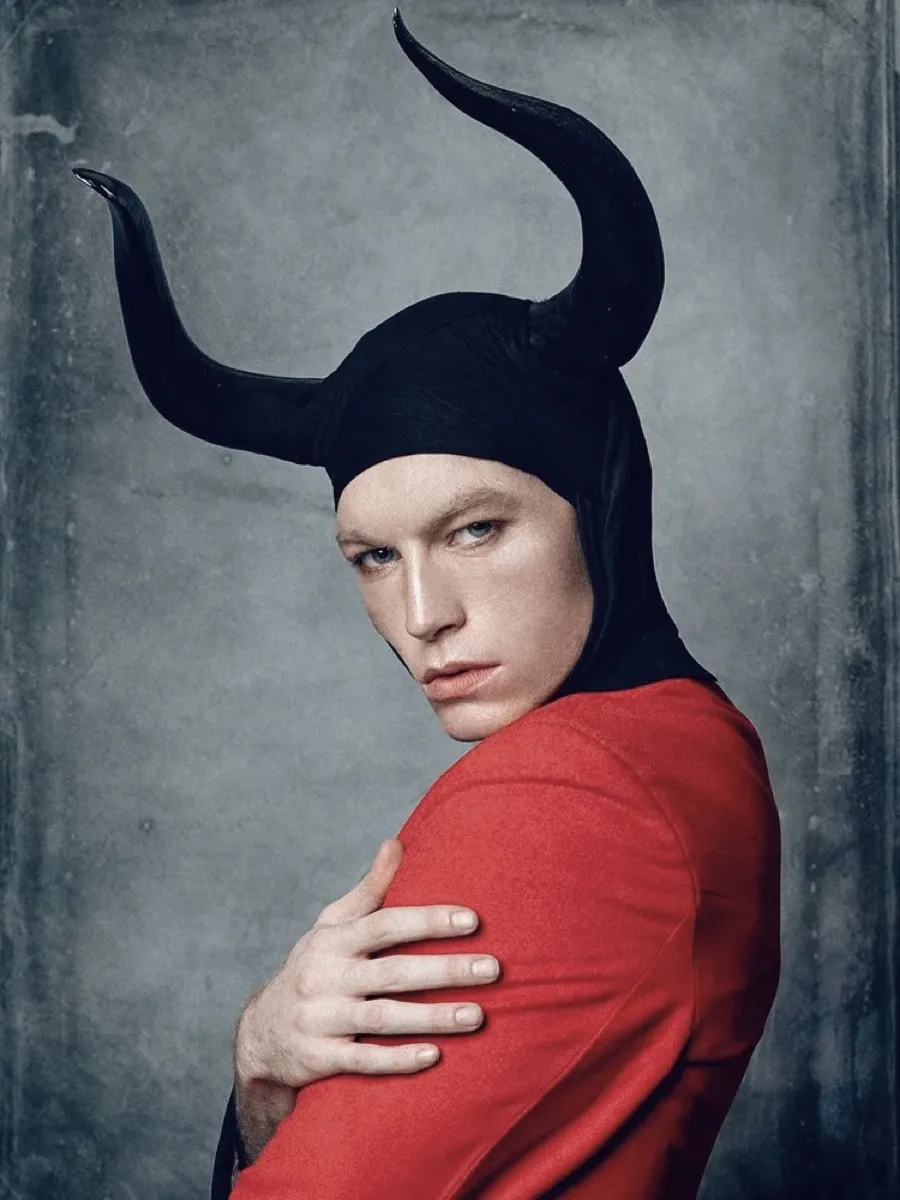
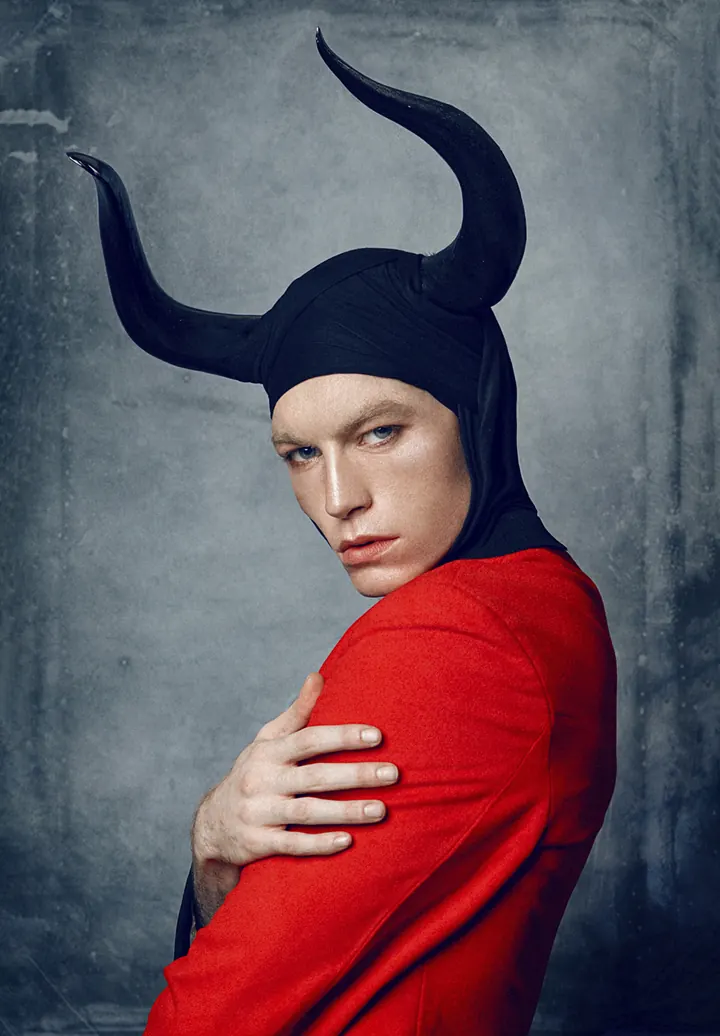
feat: higher-quality gallery photos, light thumbnails and 70% lightbox
- New photos exported as a 720px thumbnail (gallery) plus a -full version (lightbox, max 1800px)
- Restore the missing embrace photo (was .png, page asked for .webp)
- Hourglass and horns photos: white border cropped from the thumbnail only, kept in the lightbox
- Lightbox opens every photo at 70% of the screen height
- Last Projects photo replaced with the framed butterfly portrait
- Alt text updated to match the new photos

diff --git a/portraits.html b/portraits.html
@@ -74,7 +74,7 @@
         <div class="col">
           <figure class="gallery-card position-relative">
             <button class="gallery-card__button" type="button" aria-haspopup="dialog">
-              <img width="900" height="1200" class="d-block w-100 h-100 object-fit-cover" src="assets/images/portrait-blue-green-jacket.webp" alt="Portrait of a man with short hair looking over his shoulder, wearing a textured green jacket and a silver chain, against a cobalt blue backdrop" loading="lazy">
+              <img width="720" height="966" class="d-block w-100 h-100 object-fit-cover" src="assets/images/portrait-blue-green-jacket.webp" data-full="assets/images/portrait-blue-green-jacket-full.webp" alt="Portrait of a man with short natural hair and a direct gaze, wearing a bright green textured jacket and a silver chain, against a cobalt blue backdrop" loading="lazy">
             </button>
             <figcaption class="gallery-card__label position-absolute">Portraits</figcaption>
           </figure>
@@ -82,7 +82,7 @@
         <div class="col">
           <figure class="gallery-card position-relative">
             <button class="gallery-card__button" type="button" aria-haspopup="dialog">
-              <img width="900" height="1200" class="d-block w-100 h-100 object-fit-cover" src="assets/images/portrait-frida-inspired.webp" alt="Frida Kahlo-inspired portrait of a woman with red flowers in her braided hair, silver earrings and necklace, an embroidered blouse and a turquoise shawl, against a yellow backdrop" loading="lazy">
+              <img width="720" height="1080" class="d-block w-100 h-100 object-fit-cover" src="assets/images/portrait-frida-inspired.webp" data-full="assets/images/portrait-frida-inspired-full.webp" alt="Frida Kahlo-inspired portrait of a woman with red flowers in her braided hair, silver earrings and necklace, an embroidered blouse and a turquoise shawl, against a yellow backdrop" loading="lazy">
             </button>
             <figcaption class="gallery-card__label position-absolute">Portraits</figcaption>
           </figure>
@@ -90,7 +90,7 @@
         <div class="col">
           <figure class="gallery-card position-relative">
             <button class="gallery-card__button" type="button" aria-haspopup="dialog">
-              <img width="899" height="1200" class="d-block w-100 h-100 object-fit-cover" src="assets/images/portrait-red-turtleneck.webp" alt="Portrait of a young man with short auburn hair and flushed cheeks, wearing a chunky red turtleneck, against a weathered teal backdrop" loading="lazy">
+              <img width="720" height="1080" class="d-block w-100 h-100 object-fit-cover" src="assets/images/portrait-red-turtleneck.webp" data-full="assets/images/portrait-red-turtleneck-full.webp" alt="Portrait of a young man with short auburn hair and flushed cheeks, wearing a chunky red turtleneck, against a weathered teal backdrop" loading="lazy">
             </button>
             <figcaption class="gallery-card__label position-absolute">Portraits</figcaption>
           </figure>
@@ -106,7 +106,7 @@
         <div class="col">
           <figure class="gallery-card position-relative">
             <button class="gallery-card__button" type="button" aria-haspopup="dialog">
-              <img width="900" height="1200" class="d-block w-100 h-100 object-fit-cover" src="assets/images/portrait-red-hair-blue.webp" alt="Portrait of a freckled young man with bright red hair looking back over his bare shoulder, against a turquoise blue backdrop" loading="lazy">
+              <img width="720" height="876" class="d-block w-100 h-100 object-fit-cover" src="assets/images/portrait-red-hair-blue.webp" data-full="assets/images/portrait-red-hair-blue-full.webp" alt="Portrait of a freckled young man with bright red hair looking back over his bare shoulder, against a turquoise blue backdrop" loading="lazy">
             </button>
             <figcaption class="gallery-card__label position-absolute">Portraits</figcaption>
           </figure>
@@ -114,7 +114,7 @@
         <div class="col">
           <figure class="gallery-card position-relative">
             <button class="gallery-card__button" type="button" aria-haspopup="dialog">
-              <img width="900" height="1200" class="d-block w-100 h-100 object-fit-cover" src="assets/images/portrait-striped-beret.webp" alt="Black-and-white portrait of a tattooed man in a striped T-shirt and braces, touching the brim of a dark beret" loading="lazy">
+              <img width="720" height="900" class="d-block w-100 h-100 object-fit-cover" src="assets/images/portrait-striped-beret.webp" data-full="assets/images/portrait-striped-beret-full.webp" alt="Black-and-white portrait of a young person with shoulder-length blond hair and bare shoulders, looking straight at the camera" loading="lazy">
             </button>
             <figcaption class="gallery-card__label position-absolute">Portraits</figcaption>
           </figure>
@@ -122,7 +122,7 @@
         <div class="col">
           <figure class="gallery-card position-relative">
             <button class="gallery-card__button" type="button" aria-haspopup="dialog">
-              <img width="899" height="1200" class="d-block w-100 h-100 object-fit-cover" src="assets/images/portrait-gothic-bonnet.webp" alt="Portrait of a woman with long wavy brown hair in a black velvet costume with a sculptural bonnet, sheer sleeves, silver ornaments and insect-like wings, against a mottled cream backdrop" loading="lazy">
+              <img width="720" height="932" class="d-block w-100 h-100 object-fit-cover" src="assets/images/portrait-gothic-bonnet.webp" data-full="assets/images/portrait-gothic-bonnet-full.webp" alt="Portrait of a young woman with her dark hair in a high bun and a long drop earring, looking back over her shoulder in a blue embellished garment, against a mottled grey-brown backdrop" loading="lazy">
             </button>
             <figcaption class="gallery-card__label position-absolute">Portraits</figcaption>
           </figure>
@@ -130,7 +130,7 @@
         <div class="col">
           <figure class="gallery-card position-relative">
             <button class="gallery-card__button" type="button" aria-haspopup="dialog">
-              <img width="900" height="1200" class="d-block w-100 h-100 object-fit-cover" src="assets/images/portrait-dark-hair-sage.webp" alt="Close-up portrait of a young man with tousled dark hair and pale blue eyes looking over his bare shoulder, a hand resting on it, against a sage green backdrop" loading="lazy">
+              <img width="720" height="900" class="d-block w-100 h-100 object-fit-cover" src="assets/images/portrait-dark-hair-sage.webp" data-full="assets/images/portrait-dark-hair-sage-full.webp" alt="Close-up portrait of a young man with tousled dark hair and pale eyes looking over his bare shoulder, a hand resting on it, against a sage green backdrop" loading="lazy">
             </button>
             <figcaption class="gallery-card__label position-absolute">Portraits</figcaption>
           </figure>
@@ -138,7 +138,7 @@
         <div class="col">
           <figure class="gallery-card position-relative">
             <button class="gallery-card__button" type="button" aria-haspopup="dialog">
-              <img width="900" height="1200" class="d-block w-100 h-100 object-fit-cover" src="assets/images/portrait-horns-red.webp" alt="Portrait of a man in a black hood with tall curved horns and a red jacket, hugging his arm and looking back over his shoulder, against a weathered grey backdrop" loading="lazy">
+              <img width="720" height="1036" class="d-block w-100 h-100 object-fit-cover" src="assets/images/portrait-horns-red.webp" data-full="assets/images/portrait-horns-red-full.webp" alt="Portrait of a young man in a dark navy hood with tall curved horns and a red jacket, hugging his arm and looking back over his shoulder, against a weathered blue-grey backdrop" loading="lazy">
             </button>
             <figcaption class="gallery-card__label position-absolute">Portraits</figcaption>
           </figure>

diff --git a/index.html b/index.html
@@ -85,7 +85,7 @@
       <div class="col">
         <figure class="gallery-card position-relative">
           <button class="gallery-card__button" type="button" aria-haspopup="dialog">
-            <img width="900" height="1200" class="d-block w-100 h-100 object-fit-cover" src="assets/images/portrait-blue-green-jacket.webp" alt="Portrait of a man with short hair looking over his shoulder, wearing a textured green jacket and a silver chain, against a cobalt blue backdrop" loading="lazy">
+            <img width="720" height="966" class="d-block w-100 h-100 object-fit-cover" src="assets/images/portrait-blue-green-jacket.webp" data-full="assets/images/portrait-blue-green-jacket-full.webp" alt="Portrait of a man with short natural hair and a direct gaze, wearing a bright green textured jacket and a silver chain, against a cobalt blue backdrop" loading="lazy">
           </button>
           <figcaption class="gallery-card__label position-absolute">Portraits</figcaption>
         </figure>
@@ -93,7 +93,7 @@
       <div class="col">
         <figure class="gallery-card position-relative">
           <button class="gallery-card__button" type="button" aria-haspopup="dialog">
-            <img width="900" height="1200" class="d-block w-100 h-100 object-fit-cover" src="assets/images/portrait-frida-inspired.webp" alt="Frida Kahlo-inspired portrait of a woman with red flowers in her braided hair, silver earrings and necklace, an embroidered blouse and a turquoise shawl, against a yellow backdrop" loading="lazy">
+            <img width="720" height="1080" class="d-block w-100 h-100 object-fit-cover" src="assets/images/portrait-frida-inspired.webp" data-full="assets/images/portrait-frida-inspired-full.webp" alt="Frida Kahlo-inspired portrait of a woman with red flowers in her braided hair, silver earrings and necklace, an embroidered blouse and a turquoise shawl, against a yellow backdrop" loading="lazy">
           </button>
           <figcaption class="gallery-card__label position-absolute">Portraits</figcaption>
         </figure>
@@ -101,7 +101,7 @@
       <div class="col">
         <figure class="gallery-card position-relative">
           <button class="gallery-card__button" type="button" aria-haspopup="dialog">
-            <img width="899" height="1200" class="d-block w-100 h-100 object-fit-cover" src="assets/images/portrait-red-turtleneck.webp" alt="Portrait of a young man with short auburn hair and flushed cheeks, wearing a chunky red turtleneck, against a weathered teal backdrop" loading="lazy">
+            <img width="720" height="1080" class="d-block w-100 h-100 object-fit-cover" src="assets/images/portrait-red-turtleneck.webp" data-full="assets/images/portrait-red-turtleneck-full.webp" alt="Portrait of a young man with short auburn hair and flushed cheeks, wearing a chunky red turtleneck, against a weathered teal backdrop" loading="lazy">
           </button>
           <figcaption class="gallery-card__label position-absolute">Portraits</figcaption>
         </figure>
@@ -117,7 +117,7 @@
       <div class="col">
         <figure class="gallery-card position-relative">
           <button class="gallery-card__button" type="button" aria-haspopup="dialog">
-            <img width="900" height="1200" class="d-block w-100 h-100 object-fit-cover" src="assets/images/portrait-horns-red.webp" alt="Portrait of a man in a black hood with tall curved horns and a red jacket, hugging his arm and looking back over his shoulder, against a weathered grey backdrop" loading="lazy">
+            <img width="720" height="1036" class="d-block w-100 h-100 object-fit-cover" src="assets/images/portrait-horns-red.webp" data-full="assets/images/portrait-horns-red-full.webp" alt="Portrait of a young man in a dark navy hood with tall curved horns and a red jacket, hugging his arm and looking back over his shoulder, against a weathered blue-grey backdrop" loading="lazy">
           </button>
           <figcaption class="gallery-card__label position-absolute">Portraits</figcaption>
         </figure>
@@ -125,7 +125,7 @@
       <div class="col">
         <figure class="gallery-card position-relative">
           <button class="gallery-card__button" type="button" aria-haspopup="dialog">
-            <img width="900" height="1200" class="d-block w-100 h-100 object-fit-cover" src="assets/images/portrait-red-hair-blue.webp" alt="Portrait of a freckled young man with bright red hair looking back over his bare shoulder, against a turquoise blue backdrop" loading="lazy">
+            <img width="720" height="876" class="d-block w-100 h-100 object-fit-cover" src="assets/images/portrait-red-hair-blue.webp" data-full="assets/images/portrait-red-hair-blue-full.webp" alt="Portrait of a freckled young man with bright red hair looking back over his bare shoulder, against a turquoise blue backdrop" loading="lazy">
           </button>
           <figcaption class="gallery-card__label position-absolute">Portraits</figcaption>
         </figure>
@@ -133,7 +133,7 @@
       <div class="col">
         <figure class="gallery-card position-relative">
           <button class="gallery-card__button" type="button" aria-haspopup="dialog">
-            <img width="899" height="1200" class="d-block w-100 h-100 object-fit-cover" src="assets/images/portrait-gothic-bonnet.webp" alt="Portrait of a woman with long wavy brown hair in a black velvet costume with a sculptural bonnet, sheer sleeves, silver ornaments and insect-like wings, against a mottled cream backdrop" loading="lazy">
+            <img width="720" height="932" class="d-block w-100 h-100 object-fit-cover" src="assets/images/portrait-gothic-bonnet.webp" data-full="assets/images/portrait-gothic-bonnet-full.webp" alt="Portrait of a young woman with her dark hair in a high bun and a long drop earring, looking back over her shoulder in a blue embellished garment, against a mottled grey-brown backdrop" loading="lazy">
           </button>
           <figcaption class="gallery-card__label position-absolute">Portraits</figcaption>
         </figure>
@@ -141,7 +141,7 @@
       <div class="col">
         <figure class="gallery-card position-relative">
           <button class="gallery-card__button" type="button" aria-haspopup="dialog">
-            <img width="900" height="1200" class="d-block w-100 h-100 object-fit-cover" src="assets/images/portrait-dark-hair-sage.webp" alt="Close-up portrait of a young man with tousled dark hair and pale blue eyes looking over his bare shoulder, a hand resting on it, against a sage green backdrop" loading="lazy">
+            <img width="720" height="900" class="d-block w-100 h-100 object-fit-cover" src="assets/images/portrait-dark-hair-sage.webp" data-full="assets/images/portrait-dark-hair-sage-full.webp" alt="Close-up portrait of a young man with tousled dark hair and pale eyes looking over his bare shoulder, a hand resting on it, against a sage green backdrop" loading="lazy">
           </button>
           <figcaption class="gallery-card__label position-absolute">Portraits</figcaption>
         </figure>
@@ -149,7 +149,7 @@
       <div class="col">
         <figure class="gallery-card position-relative">
           <button class="gallery-card__button" type="button" aria-haspopup="dialog">
-            <img width="900" height="1200" class="d-block w-100 h-100 object-fit-cover" src="assets/images/portrait-striped-beret.webp" alt="Black-and-white portrait of a tattooed man in a striped T-shirt and braces, touching the brim of a dark beret" loading="lazy">
+            <img width="720" height="900" class="d-block w-100 h-100 object-fit-cover" src="assets/images/portrait-striped-beret.webp" data-full="assets/images/portrait-striped-beret-full.webp" alt="Black-and-white portrait of a young person with shoulder-length blond hair and bare shoulders, looking straight at the camera" loading="lazy">
           </button>
           <figcaption class="gallery-card__label position-absolute">Portraits</figcaption>
         </figure>

diff --git a/projects.html b/projects.html
@@ -74,7 +74,7 @@
         <div class="col">
           <figure class="gallery-card position-relative">
             <button class="gallery-card__button" type="button" aria-haspopup="dialog">
-              <img width="900" height="1200" class="d-block w-100 h-100 object-fit-cover" src="assets/images/project-embrace-bw.webp" alt="Black-and-white portrait of two shirtless men posing close together, one with a buzz cut and an ear cuff, the other with an afro, his arm wrapped around the first" loading="lazy">
+              <img width="720" height="714" class="d-block w-100 h-100 object-fit-cover" src="assets/images/project-embrace-bw.webp" data-full="assets/images/project-embrace-bw-full.webp" alt="Black-and-white portrait of two shirtless men posing close together, one with a buzz cut and an ear cuff, the other with an afro, his arm wrapped around the first" loading="lazy">
             </button>
             <figcaption class="gallery-card__label position-absolute">Projects</figcaption>
           </figure>
@@ -82,7 +82,7 @@
         <div class="col">
           <figure class="gallery-card position-relative">
             <button class="gallery-card__button" type="button" aria-haspopup="dialog">
-              <img width="750" height="1000" class="d-block w-100 h-100 object-fit-cover" src="assets/images/project-hourglass-feathers.webp" alt="Portrait of a woman with very long black hair in a black feather headdress with jewelled details and red lips, holding a red sand hourglass, against a dark blue painted backdrop" loading="lazy">
+              <img width="720" height="1036" class="d-block w-100 h-100 object-fit-cover" src="assets/images/project-hourglass-feathers.webp" data-full="assets/images/project-hourglass-feathers-full.webp" alt="Portrait of a seated woman with very long black hair, a black feather headdress and red lips, in a flowing ochre dress, holding a red sand hourglass against a dark blue painted backdrop" loading="lazy">
             </button>
             <figcaption class="gallery-card__label position-absolute">Projects</figcaption>
           </figure>
@@ -98,7 +98,7 @@
         <div class="col">
           <figure class="gallery-card position-relative">
             <button class="gallery-card__button" type="button" aria-haspopup="dialog">
-              <img width="900" height="1200" class="d-block w-100 h-100 object-fit-cover" src="assets/images/project-green-denim.webp" alt="Editorial of a man in black sunglasses and a bright green printed denim jacket and jeans, worn open over a bare chest with a silver chain, against a cobalt blue backdrop" loading="lazy">
+              <img width="720" height="964" class="d-block w-100 h-100 object-fit-cover" src="assets/images/project-green-denim.webp" data-full="assets/images/project-green-denim-full.webp" alt="A hardcover book titled &quot;Zodiac&quot; by Caio Sanfelice, its cover showing a wheel of zodiac portraits, on a dark table against a deep blue background" loading="lazy">
             </button>
             <figcaption class="gallery-card__label position-absolute">Projects</figcaption>
           </figure>
@@ -106,7 +106,7 @@
         <div class="col">
           <figure class="gallery-card position-relative">
             <button class="gallery-card__button" type="button" aria-haspopup="dialog">
-              <img width="829" height="1106" class="d-block w-100 h-100 object-fit-cover" src="assets/images/project-fringe-dress.webp" alt="Editorial of a woman with a dark bob in a burgundy fringed dress and black knee-high boots, mid-stride, against an iridescent backdrop" loading="lazy">
+              <img width="720" height="900" class="d-block w-100 h-100 object-fit-cover" src="assets/images/project-fringe-dress.webp" data-full="assets/images/project-fringe-dress-full.webp" alt="Editorial of a woman with a dark bob in a burgundy fringed dress and black knee-high boots, mid-stride, against an iridescent backdrop" loading="lazy">
             </button>
             <figcaption class="gallery-card__label position-absolute">Projects</figcaption>
           </figure>
@@ -138,7 +138,7 @@
         <div class="col">
           <figure class="gallery-card position-relative">
             <button class="gallery-card__button" type="button" aria-haspopup="dialog">
-              <img width="900" height="1200" class="d-block w-100 h-100 object-fit-cover" src="assets/images/project-beard-beanie.webp" alt="Close-up portrait of a man with a full dark beard, an olive beanie and chest tattoos, looking over his shoulder against a turquoise backdrop" loading="lazy">
+              <img width="720" height="720" class="d-block w-100 h-100 object-fit-cover" src="assets/images/project-butterfly-frame.webp" data-full="assets/images/project-butterfly-frame-full.webp" alt="Framed portrait of a shirtless man with dark tousled hair and blue eyes, one butterfly covering his eye and another on his shoulder, hanging on a textured green wall" loading="lazy">
             </button>
             <figcaption class="gallery-card__label position-absolute">Projects</figcaption>
           </figure>

diff --git a/assets/css/style.css b/assets/css/style.css
@@ -578,7 +578,7 @@ html.snap { scroll-snap-type: y proximity; }
 
 .lightbox__dialog {
   width: fit-content;
-  max-width: min(92vw, 60rem);
+  max-width: 92vw;
   margin-inline: auto;
 }
 
@@ -608,8 +608,9 @@ html.snap { scroll-snap-type: y proximity; }
   display: block;
   width: auto;
   max-width: 100%;
-  height: auto;
-  max-height: calc(100svh - 11rem); /* room for the close button, the caption and the modal margins */
+  height: 70svh; /* every photo opens at 70% of the screen height */
+  max-height: calc(100svh - 11rem); /* small screens: still room for the close button and the caption */
+  object-fit: contain; /* narrow screens: the whole photo still fits */
   margin-inline: auto;
   border-radius: 2px; /* photos: same near-square corners as the gallery */
 }

diff --git a/assets/js/components.js b/assets/js/components.js
@@ -77,7 +77,8 @@ function initLightbox() {
   buttons.forEach((button) => {
     button.addEventListener("click", () => {
       const img = button.querySelector("img");
-      modalImg.src = img.currentSrc || img.src;
+      // the gallery shows a small, cropped version; the viewer opens the full photo (data-full)
+      modalImg.src = img.dataset.full || img.currentSrc || img.src;
       modalImg.alt = img.alt;
       lastButton = button;
       modal.show();
